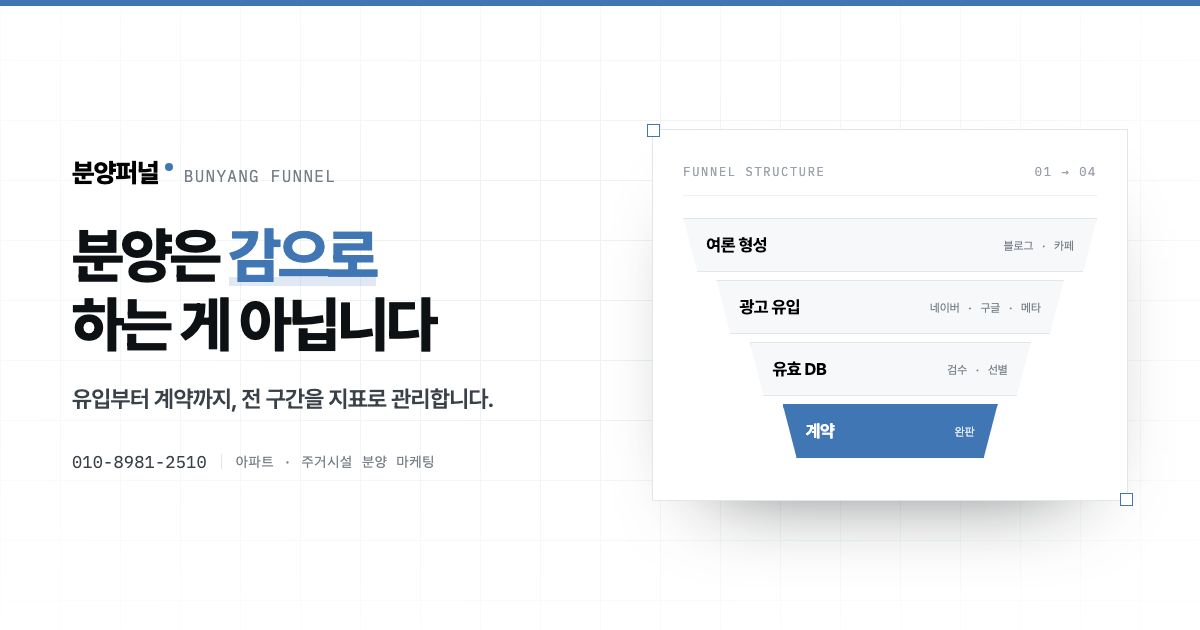
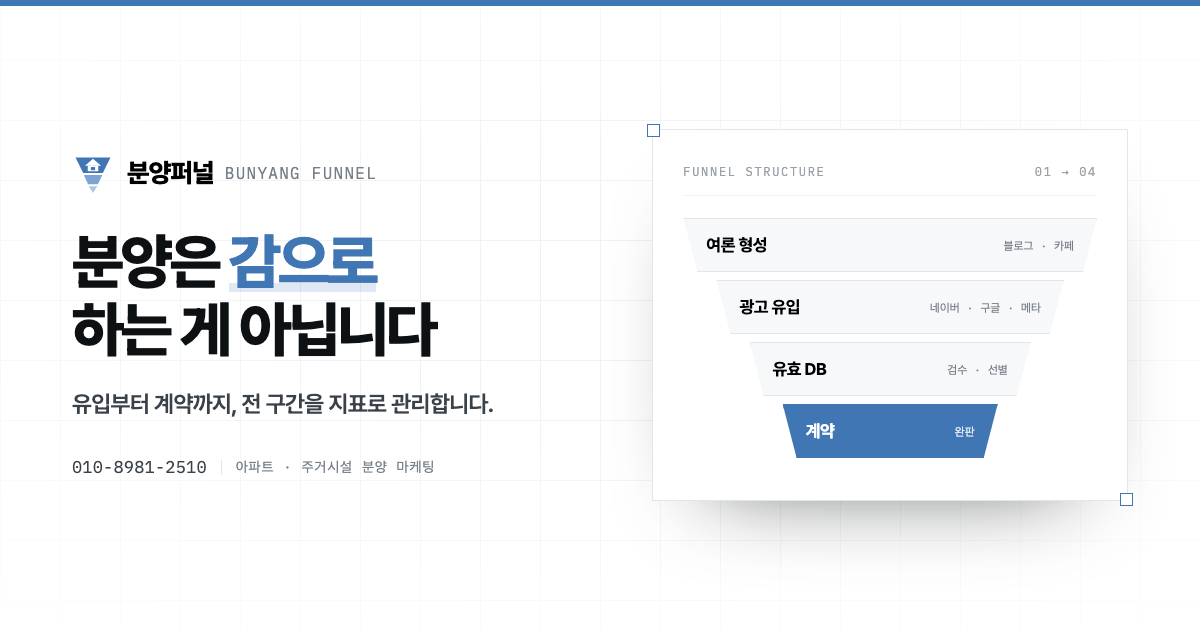
개인정보처리방침·스팸 방어·전송 실패 감지·OG 이미지 갱신
1. 개인정보처리방침 페이지 신설
   수집 항목/목적/보유기간/위탁(Google)/이용자 권리/보호책임자 명시.
   폼 동의 문구와 푸터에서 링크. sitemap 등재.

2. 폼 스팸 방어
   화면에 보이지 않는 허니팟 필드 + 3초 이내 제출 차단(클라이언트),
   허니팟·다중 링크 검사(서버). 봇에는 성공으로 응답해 재시도 방지.

3. 전송 실패 감지
   no-cors → cors 로 전환. Apps Script 응답의 ok 값을 실제로 확인해
   저장 실패 시 전화 안내를 노출. 기존에는 실패해도 성공으로 표시됨.

4. OG 이미지 새 로고 반영 (기존: 로고 제작 전 텍스트 버전)

5. :focus-visible 포커스 표시 추가 (키보드 탐색)

diff --git a/privacy.html b/privacy.html
@@ -1,0 +1,185 @@
+<!DOCTYPE html>
+<html lang="ko">
+<head>
+<meta charset="UTF-8">
+<meta name="viewport" content="width=device-width, initial-scale=1.0">
+<title>개인정보처리방침 | 분양퍼널</title>
+<meta name="description" content="분양퍼널(퍼널마케팅)의 개인정보 수집·이용·보관 및 파기에 관한 안내입니다.">
+<meta name="robots" content="index, follow">
+<link rel="canonical" href="https://bunyangfunnel.co.kr/privacy.html">
+<link rel="icon" href="favicon.svg" type="image/svg+xml">
+<link rel="apple-touch-icon" href="apple-touch-icon.png">
+<meta name="theme-color" content="#4176B5">
+<link rel="preconnect" href="https://cdn.jsdelivr.net" crossorigin>
+<link rel="stylesheet" href="https://cdn.jsdelivr.net/gh/orioncactus/pretendard@v1.3.9/dist/web/variable/pretendardvariable-dynamic-subset.min.css">
+<link href="https://fonts.googleapis.com/css2?family=IBM+Plex+Mono:wght@400;500&display=swap" rel="stylesheet">
+<style>
+:root{
+  --blue:#4176B5;--blue-deep:#2B5183;--blue-wash:#EDF3FA;
+  --ink:#0E1114;--ink-2:#3A4149;--grey:#767E87;--grey-d:#59616A;--grey-2:#848C94;
+  --line:#E2E6EB;--line-soft:#EFF2F5;--bg-alt:#F6F8FA;
+  --sans:'Pretendard Variable',Pretendard,-apple-system,sans-serif;
+  --mono:'IBM Plex Mono',ui-monospace,monospace;
+  --pad:clamp(24px,5vw,72px);
+}
+*{margin:0;padding:0;box-sizing:border-box;-webkit-tap-highlight-color:transparent}
+body{font-family:var(--sans);color:var(--ink);line-height:1.75;background:#fff;word-break:keep-all;-webkit-font-smoothing:antialiased}
+a{color:var(--blue);text-decoration:none}
+a:hover{text-decoration:underline;text-underline-offset:3px}
+:focus-visible{outline:2px solid var(--blue);outline-offset:3px;border-radius:2px}
+
+header{position:sticky;top:0;z-index:10;background:rgba(255,255,255,.9);backdrop-filter:blur(14px);border-bottom:1px solid var(--line)}
+.hd{max-width:860px;margin:0 auto;padding:0 var(--pad);height:64px;display:flex;align-items:center;justify-content:space-between}
+.logo{display:flex;align-items:center;gap:10px;font-weight:800;font-size:18px;letter-spacing:-.025em;color:var(--ink)}
+.logo:hover{text-decoration:none}
+.logo svg{width:25px;height:25px;flex-shrink:0}
+.back{font-size:14px;font-weight:600;color:var(--grey-d)}
+
+main{max-width:860px;margin:0 auto;padding:clamp(44px,7vw,76px) var(--pad) clamp(72px,10vw,110px)}
+.eyebrow{font-family:var(--mono);font-size:11px;letter-spacing:.16em;color:var(--grey-2);margin-bottom:14px}
+h1{font-size:clamp(27px,4.5vw,38px);font-weight:800;letter-spacing:-.04em;line-height:1.3;margin-bottom:16px}
+.intro{font-size:15.5px;color:var(--grey-d);line-height:1.85;padding-bottom:26px;margin-bottom:8px;border-bottom:1px solid var(--line)}
+
+h2{font-size:clamp(17px,2.4vw,20px);font-weight:800;letter-spacing:-.03em;margin:40px 0 12px;padding-top:4px}
+h2 .n{font-family:var(--mono);font-size:12px;color:var(--blue);font-weight:600;margin-right:9px;letter-spacing:.06em}
+p{font-size:15px;color:var(--grey-d);margin-bottom:12px}
+ul{margin:0 0 14px;padding-left:0;list-style:none}
+li{font-size:15px;color:var(--grey-d);padding-left:16px;position:relative;margin-bottom:7px}
+li::before{content:'';position:absolute;left:2px;top:.72em;width:4px;height:4px;border-radius:50%;background:var(--grey-2)}
+b{color:var(--ink);font-weight:700}
+
+table{width:100%;border-collapse:collapse;margin:6px 0 16px;font-size:14.5px}
+th,td{padding:12px 14px;border:1px solid var(--line);text-align:left;vertical-align:top}
+th{background:var(--bg-alt);font-weight:700;font-size:13.5px;color:var(--ink);white-space:nowrap}
+td{color:var(--grey-d)}
+
+.box{background:var(--bg-alt);border:1px solid var(--line);border-radius:2px;padding:20px 22px;margin:16px 0}
+.box p:last-child{margin-bottom:0}
+.note{border-left:3px solid var(--blue);background:var(--blue-wash);border-color:transparent}
+
+.foot{margin-top:52px;padding-top:24px;border-top:1px solid var(--line);
+  font-family:var(--mono);font-size:12px;color:var(--grey-2);line-height:2;letter-spacing:.01em}
+.foot b{color:var(--ink-2);font-weight:500;margin-right:7px}
+@media(max-width:560px){
+  th,td{padding:11px 12px;font-size:13.5px}
+  th{white-space:normal}
+}
+</style>
+</head>
+<body>
+
+<header>
+  <div class="hd">
+    <a href="/" class="logo">
+      <svg viewBox="0 0 120 120" aria-hidden="true">
+        <path d="M10 16 H110 L88 60 H32 Z" fill="#4176B5"/>
+        <path d="M60 19 L83 39 H37 Z" fill="#fff"/>
+        <path d="M45 39 H75 V55 H45 Z" fill="#fff"/>
+        <rect x="54" y="43" width="12" height="9" fill="#4176B5"/>
+        <path d="M33.5 66 H86.5 L74 92 H46 Z" fill="#7CA5D3"/>
+        <path d="M47.5 98 H72.5 L60 117 Z" fill="#AEC8E4"/>
+      </svg>
+      분양퍼널
+    </a>
+    <a href="/" class="back">← 홈으로</a>
+  </div>
+</header>
+
+<main>
+  <div class="eyebrow">PRIVACY POLICY</div>
+  <h1>개인정보처리방침</h1>
+  <p class="intro">퍼널마케팅(이하 &lsquo;회사&rsquo;)은 분양퍼널 웹사이트를 통해 수집하는 개인정보를 개인정보 보호법에 따라 안전하게 관리하고 있습니다. 본 방침은 회사가 어떤 정보를 왜 수집하며, 얼마나 보관하고 어떻게 파기하는지를 안내합니다.</p>
+
+  <h2><span class="n">01</span>수집하는 개인정보 항목</h2>
+  <p>회사는 상담 신청 시 아래 항목을 수집합니다. 이용자가 직접 입력한 정보 외에 별도로 수집하는 정보는 없으며, 주민등록번호 등 고유식별정보는 일절 수집하지 않습니다.</p>
+  <table>
+    <tr><th>구분</th><th>항목</th></tr>
+    <tr><td><b>필수</b></td><td>회사명, 담당자명, 연락처</td></tr>
+    <tr><td>선택</td><td>회사 구분, 현장명, 지역, 문의 내용</td></tr>
+  </table>
+
+  <h2><span class="n">02</span>수집 및 이용 목적</h2>
+  <ul>
+    <li>분양 마케팅 상담 및 현장 진단 결과 회신</li>
+    <li>매체 구성·목표 지표 등 서비스 제안 및 견적 안내</li>
+    <li>계약 체결 시 업무 연락 및 리포트 전달</li>
+  </ul>
+  <p>수집된 정보는 위 목적 외의 용도로 사용하지 않으며, 목적이 변경될 경우 사전에 동의를 받습니다.</p>
+
+  <h2><span class="n">03</span>보유 및 이용 기간</h2>
+  <div class="box">
+    <p>수집일로부터 <b>3년</b> 보관 후 지체 없이 파기합니다.</p>
+  </div>
+  <p>다만 이용자가 그 전에 삭제를 요청하는 경우 즉시 파기하며, 계약이 체결된 경우에는 아래 법령에 따른 보존 기간을 따릅니다.</p>
+  <ul>
+    <li>계약 또는 청약철회 등에 관한 기록 &mdash; 5년 <span style="color:var(--grey-2)">(전자상거래법)</span></li>
+    <li>대금결제 및 재화 등의 공급에 관한 기록 &mdash; 5년 <span style="color:var(--grey-2)">(전자상거래법)</span></li>
+    <li>소비자 불만 또는 분쟁처리에 관한 기록 &mdash; 3년 <span style="color:var(--grey-2)">(전자상거래법)</span></li>
+  </ul>
+
+  <h2><span class="n">04</span>파기 절차 및 방법</h2>
+  <p>보유 기간이 경과하거나 처리 목적이 달성된 개인정보는 지체 없이 파기합니다. 전자적 파일 형태의 정보는 복구할 수 없는 방법으로 영구 삭제하며, 출력물이 있는 경우 분쇄하거나 소각합니다.</p>
+
+  <h2><span class="n">05</span>제3자 제공</h2>
+  <p>회사는 이용자의 개인정보를 <b>제3자에게 제공하지 않습니다.</b> 다만 이용자가 사전에 동의한 경우 또는 법령에 따라 수사기관의 적법한 요구가 있는 경우에 한해 제공할 수 있습니다.</p>
+
+  <h2><span class="n">06</span>처리 위탁</h2>
+  <p>회사는 상담 내역의 보관 및 관리를 위해 아래와 같이 업무를 위탁하고 있습니다.</p>
+  <table>
+    <tr><th>수탁자</th><th>위탁 업무</th></tr>
+    <tr><td>Google LLC</td><td>상담 신청 내역 저장 및 보관 (Google Sheets, Google Apps Script)</td></tr>
+  </table>
+  <p>회사는 위탁계약 시 개인정보가 안전하게 관리될 수 있도록 필요한 사항을 규정하고 있으며, 수탁자가 변경될 경우 본 방침을 통해 공개합니다.</p>
+
+  <h2><span class="n">07</span>이용자의 권리와 행사 방법</h2>
+  <p>이용자는 언제든지 자신의 개인정보에 대해 아래 권리를 행사할 수 있습니다.</p>
+  <ul>
+    <li>개인정보 열람 요구</li>
+    <li>오류가 있을 경우 정정 요구</li>
+    <li>삭제 요구</li>
+    <li>처리 정지 요구</li>
+  </ul>
+  <div class="box note">
+    <p>권리 행사는 아래 연락처로 요청하시면 <b>지체 없이 조치</b>합니다.<br>
+    전화 <a href="tel:01089812510">010-8981-2510</a> &middot; 이메일 <a href="mailto:dbslzhs1515@gmail.com">dbslzhs1515@gmail.com</a></p>
+  </div>
+
+  <h2><span class="n">08</span>개인정보의 안전성 확보 조치</h2>
+  <ul>
+    <li>웹사이트 전 구간 HTTPS 암호화 통신 적용</li>
+    <li>상담 내역 접근 권한을 업무상 필요한 최소 인원으로 제한</li>
+    <li>개인정보 취급자에 대한 정기적인 주의 교육 실시</li>
+  </ul>
+
+  <h2><span class="n">09</span>쿠키 및 자동 수집 장치</h2>
+  <p>본 웹사이트는 이용자를 식별하거나 행태 정보를 수집하는 <b>쿠키를 사용하지 않습니다.</b> 향후 광고 성과 측정 등을 위해 분석 도구를 도입할 경우, 본 방침을 개정하여 사전에 안내합니다.</p>
+
+  <h2><span class="n">10</span>개인정보 보호책임자</h2>
+  <table>
+    <tr><th>책임자</th><td>김현우 (대표)</td></tr>
+    <tr><th>연락처</th><td><a href="tel:01089812510">010-8981-2510</a></td></tr>
+    <tr><th>이메일</th><td><a href="mailto:dbslzhs1515@gmail.com">dbslzhs1515@gmail.com</a></td></tr>
+  </table>
+  <p>개인정보 침해에 관한 상담이 필요한 경우 아래 기관에 문의하실 수 있습니다.</p>
+  <ul>
+    <li>개인정보침해신고센터 &mdash; privacy.kisa.or.kr / 국번없이 118</li>
+    <li>개인정보 분쟁조정위원회 &mdash; kopico.go.kr / 1833-6972</li>
+    <li>대검찰청 사이버수사과 &mdash; spo.go.kr / 국번없이 1301</li>
+    <li>경찰청 사이버수사국 &mdash; ecrm.police.go.kr / 국번없이 182</li>
+  </ul>
+
+  <h2><span class="n">11</span>방침의 변경</h2>
+  <p>본 방침의 내용이 추가·삭제 또는 수정될 경우, 변경 사항의 시행 7일 전부터 본 페이지를 통해 공지합니다.</p>
+
+  <div class="foot">
+    <b>공고일</b>2026년 8월 2일<br>
+    <b>시행일</b>2026년 8월 2일<br>
+    <b>상호</b>퍼널마케팅 (분양퍼널)<br>
+    <b>대표</b>김현우 &middot; 최민철<br>
+    <b>사업자등록번호</b>868-24-01978<br>
+    <b>주소</b>경기도 남양주시 별내동 파라곤스퀘어 M동 1416
+  </div>
+</main>
+
+</body>
+</html>

diff --git a/index.html b/index.html
@@ -646,6 +646,9 @@ h1 .hl::after{
 }
 .field input::placeholder,.field textarea::placeholder{color:#A2A9B1}
 .field.err input,.field.err textarea{border-color:#D9534F}
+.hp{position:absolute;left:-9999px;width:1px;height:1px;overflow:hidden}
+:focus-visible{outline:2px solid var(--blue);outline-offset:3px;border-radius:2px}
+.field input:focus-visible,.field textarea:focus-visible,.field select:focus-visible{outline:none}
 .agree{display:flex;align-items:flex-start;gap:10px;margin:6px 0 20px;cursor:pointer}
 .agree input{width:17px;height:17px;margin-top:2px;accent-color:var(--blue);flex-shrink:0;cursor:pointer}
 .agree span{font-size:12.5px;color:var(--grey);line-height:1.6}
@@ -725,7 +728,9 @@ footer{background:#fff;border-top:1px solid var(--line);padding:52px 0 100px}
 .ft-brand b{color:var(--ink-2);font-weight:700}
 .ft-info{font-family:var(--mono);font-size:11.5px;color:var(--grey);line-height:2;letter-spacing:.01em}
 .ft-info b{color:var(--ink-2);font-weight:500;margin-right:7px}
-.ft-copy{font-family:var(--mono);font-size:10.5px;color:var(--grey-2);letter-spacing:.06em;align-self:flex-end}
+.ft-copy{font-family:var(--mono);font-size:10.5px;color:var(--grey-2);letter-spacing:.06em;align-self:flex-end;text-align:right;line-height:2.2}
+.ft-copy a{color:var(--ink-2);font-weight:500}
+.ft-copy a:hover{color:var(--blue)}
 @media(max-width:640px){footer{padding-bottom:110px}}
 
 /* ============ 모바일 플로팅 바 ============ */
@@ -1077,12 +1082,16 @@ footer{background:#fff;border-top:1px solid var(--line);padding:52px 0 100px}
           <div class="field"><label for="region">지역</label>
             <input type="text" id="region" name="region" placeholder="경기 남양주시"></div>
         </div>
+        <div class="hp" aria-hidden="true">
+          <label for="website">웹사이트</label>
+          <input type="text" id="website" name="website" tabindex="-1" autocomplete="off">
+        </div>
         <div class="field"><label for="message">현장 상황 · 문의 내용</label>
           <textarea id="message" name="message" placeholder="세대수, 분양 시기, 현재 진행 상황을 알려주세요. 이미 광고를 돌리고 계시면 DB 수량과 통화 연결률까지 적어주시면 더 정확합니다."></textarea></div>
 
         <label class="agree">
           <input type="checkbox" id="agree">
-          <span>상담 진행을 위한 개인정보(회사명·담당자명·연락처) 수집 및 이용에 동의합니다. 수집된 정보는 상담 목적으로만 사용되며 3년 후 파기됩니다.</span>
+          <span>상담 진행을 위한 개인정보(회사명·담당자명·연락처) 수집 및 이용에 동의합니다. 수집된 정보는 상담 목적으로만 사용되며 3년 후 파기됩니다. <a href="privacy.html" target="_blank" rel="noopener">개인정보처리방침</a></span>
         </label>
 
         <button type="submit" class="btn btn-primary submit" id="submitBtn">무료 진단 받기
@@ -1169,7 +1178,7 @@ footer{background:#fff;border-top:1px solid var(--line);padding:52px 0 100px}
         <span style="margin-left:52px">메타·유튜브 숏폼 광고 · 블로그/카페 바이럴 · CRM 리드 관리</span>
       </div>
     </div>
-    <div class="ft-copy">© 2026 FUNNEL MARKETING. ALL RIGHTS RESERVED.</div>
+    <div class="ft-copy"><a href="privacy.html">개인정보처리방침</a><br>© 2026 FUNNEL MARKETING. ALL RIGHTS RESERVED.</div>
   </div>
 </footer>
 
@@ -1253,6 +1262,7 @@ const io = new IntersectionObserver((entries) => {
 document.querySelectorAll('.rv, .card, .svc').forEach(el => io.observe(el));
 
 /* ---------- 폼 ---------- */
+const pageLoadedAt = Date.now();
 const form = document.getElementById('leadForm');
 const msg  = document.getElementById('formMsg');
 const btn  = document.getElementById('submitBtn');
@@ -1272,7 +1282,8 @@ form.addEventListener('submit', async (e) => {
     phone:       form.phone.value.trim(),
     site:        form.site.value.trim(),
     region:      form.region.value.trim(),
-    message:     form.message.value.trim()
+    message:     form.message.value.trim(),
+    website:     form.website.value
   };
 
   // 검증
@@ -1297,20 +1308,35 @@ form.addEventListener('submit', async (e) => {
   btn.style.opacity = '.6';
   btn.textContent = '전송 중...';
 
+  // 봇 차단 — 사람 눈에 안 보이는 칸이 채워졌거나 3초 안에 제출된 경우
+  const tooFast = (Date.now() - pageLoadedAt) < 3000;
+  if(data.website || tooFast){
+    form.reset();
+    show('ok', '신청이 접수되었습니다. 영업일 기준 24시간 내에 010-8981-2510 으로 연락드리겠습니다.');
+    restoreBtn();
+    return;
+  }
+
   if(ENDPOINT){
     try{
-      // Apps Script 웹 앱은 CORS 응답을 못 주므로 no-cors 로 보냅니다.
-      // text/plain 을 써야 preflight 없이 통과합니다.
-      await fetch(ENDPOINT, {
+      // text/plain 이면 preflight 없이 통과하고, 응답은 CORS 로 읽습니다.
+      const res  = await fetch(ENDPOINT, {
         method:'POST',
-        mode:'no-cors',
+        mode:'cors',
         headers:{'Content-Type':'text/plain;charset=utf-8'},
         body: JSON.stringify(data)
       });
-      form.reset();
-      show('ok', '신청이 접수되었습니다. 영업일 기준 24시간 내에 010-8981-2510 으로 연락드리겠습니다.');
+      const json = await res.json();
+      if(json && json.ok){
+        form.reset();
+        show('ok', '신청이 접수되었습니다. 영업일 기준 24시간 내에 010-8981-2510 으로 연락드리겠습니다.');
+      }else{
+        throw new Error(json && json.error ? json.error : 'UNKNOWN');
+      }
     }catch(err){
-      show('no', '전송에 실패했습니다. 010-8981-2510 으로 전화 주시면 바로 도와드리겠습니다.');
+      // 저장에 실패했으면 반드시 알려야 문의가 사라지지 않습니다
+      show('no', '전송에 실패했습니다. 죄송하지만 010-8981-2510 으로 전화 주시면 바로 도와드리겠습니다.');
+      console.error('[문의 전송 실패]', err);
     }
   }else{
     // 시트 미연동 상태 — 메일 앱으로 전달
@@ -1323,10 +1349,14 @@ form.addEventListener('submit', async (e) => {
     show('ok', '메일 앱이 열립니다. 전송해 주시면 24시간 내에 회신드리겠습니다.');
   }
 
+  restoreBtn();
+});
+
+function restoreBtn(){
   btn.disabled = false;
   btn.style.opacity = '1';
   btn.innerHTML = '무료 진단 받기 <svg width="15" height="15" viewBox="0 0 24 24" fill="none" stroke="currentColor" stroke-width="2.4" stroke-linecap="round" stroke-linejoin="round"><path d="M5 12h13M13 6l6 6-6 6"/></svg>';
-});
+}
 
 /* 연락처 자동 하이픈 */
 form.phone.addEventListener('input', (e) => {
